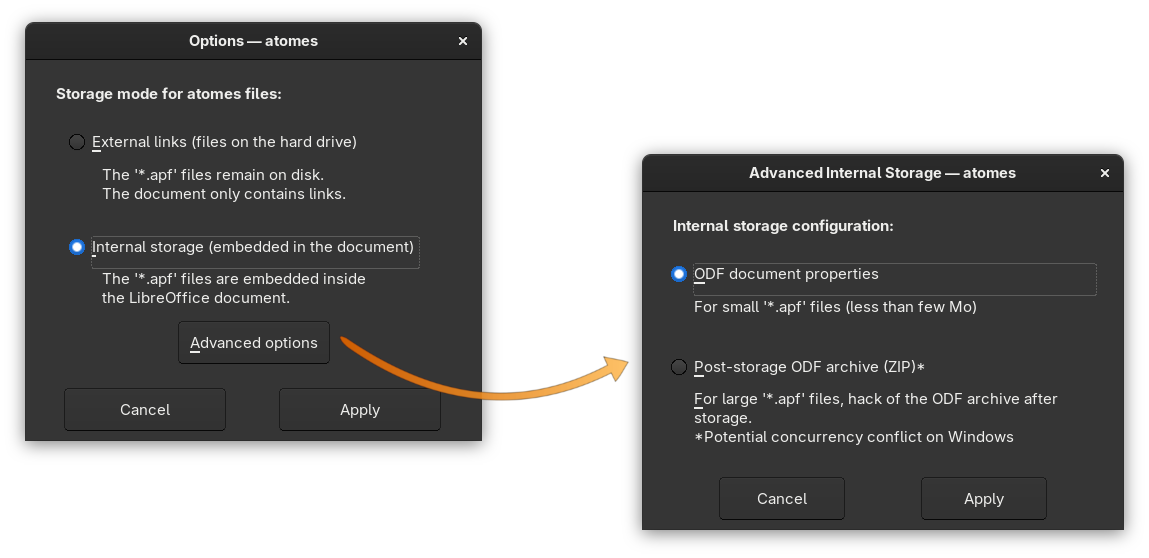
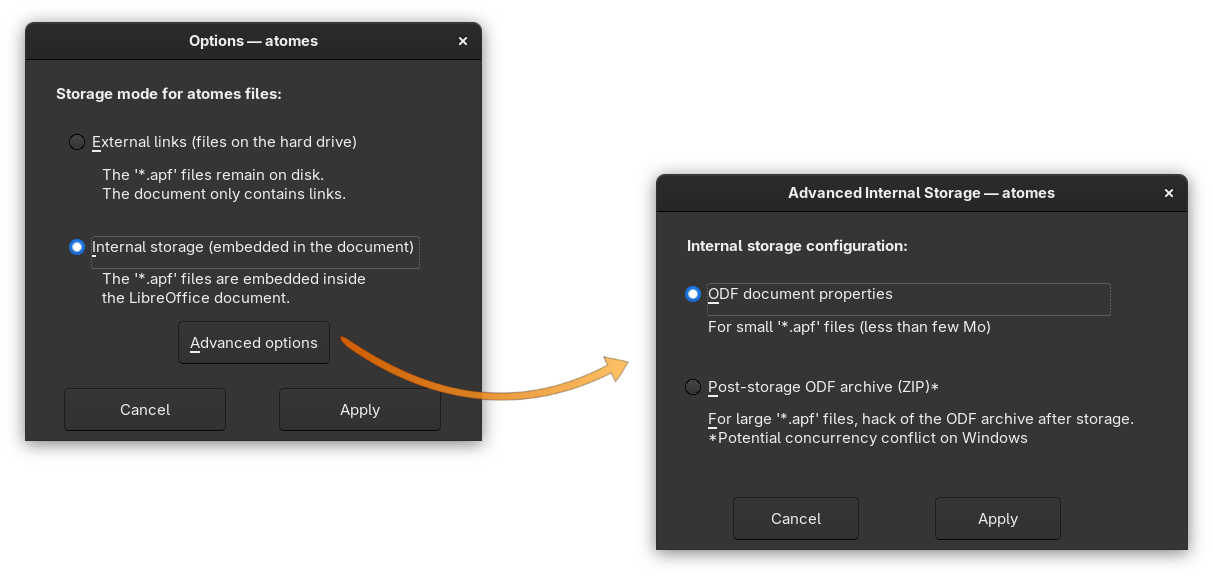
atomes LibreOffice: ven. 29 mai 2026 09:44:04 CEST

diff --git a/python/atomes_options.py b/python/atomes_options.py
@@ -158,7 +158,7 @@ def show_advanced_dialog(doc):
     ctx = _lo_ctx()
     smgr = ctx.ServiceManager
     current = _get_internal_mode(doc)
-    dm = _create_dialog_model(smgr, 190, 142, "advanced_embedded")
+    dm = _create_dialog_model(smgr, 210, 142, "advanced_embedded")
 
      # Label titre
     lbl = _create_dialog_object(dm, "com.sun.star.awt.UnoControlFixedTextModel", "lbl_title", 12, 10, 130, 14, "advanced_label")
@@ -173,7 +173,7 @@ def show_advanced_dialog(doc):
     rb_zip = _create_dialog_object(dm, "com.sun.star.awt.UnoControlRadioButtonModel", "rb_zip", 10, 69, 170, 14, "odf_archive")
     rb_zip.State = 1 if current == "zip" else 0
 
-    lbl_z = _create_dialog_object(dm, "com.sun.star.awt.UnoControlFixedTextModel", "lbl_z", 20, 83, 160, 24, "large_files")
+    lbl_z = _create_dialog_object(dm, "com.sun.star.awt.UnoControlFixedTextModel", "lbl_z", 20, 83, 180, 24, "large_files")
     lbl_z.MultiLine = True
 
     btn_cancel = _create_dialog_object(dm, "com.sun.star.awt.UnoControlButtonModel", "btn_cancel", 30, 120, 50, 18, "cancel")
